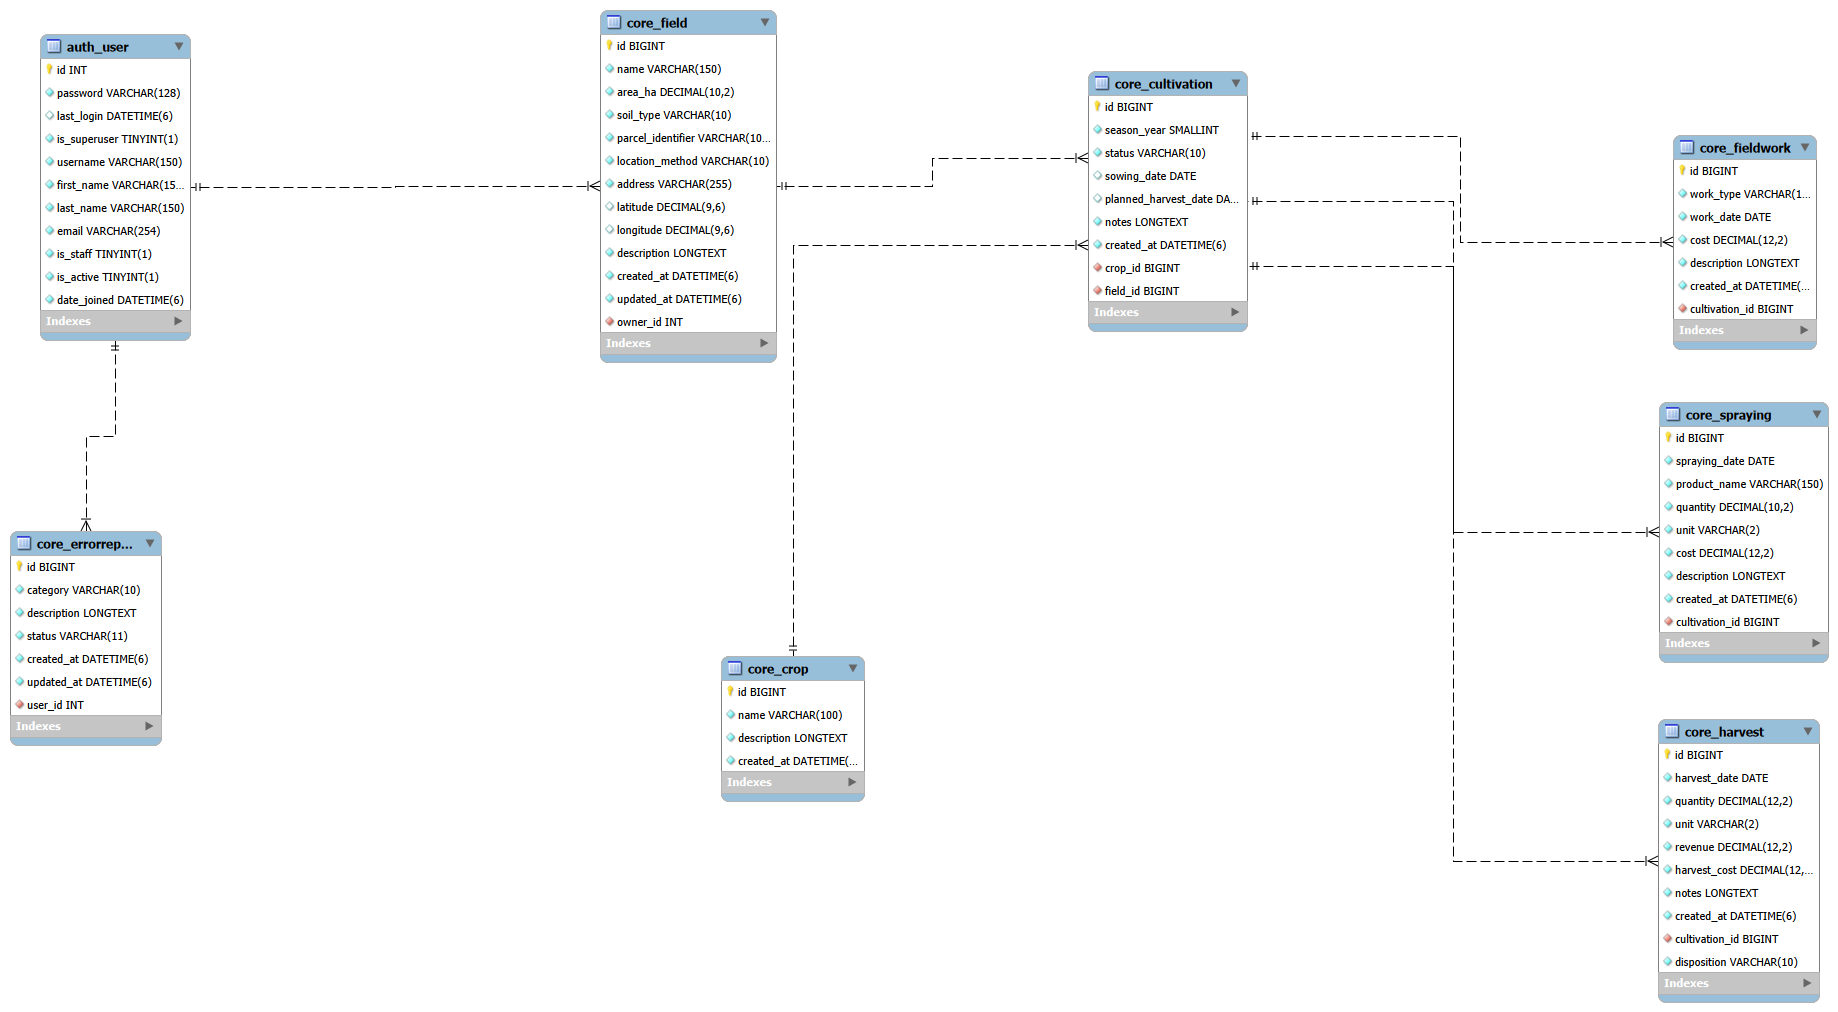
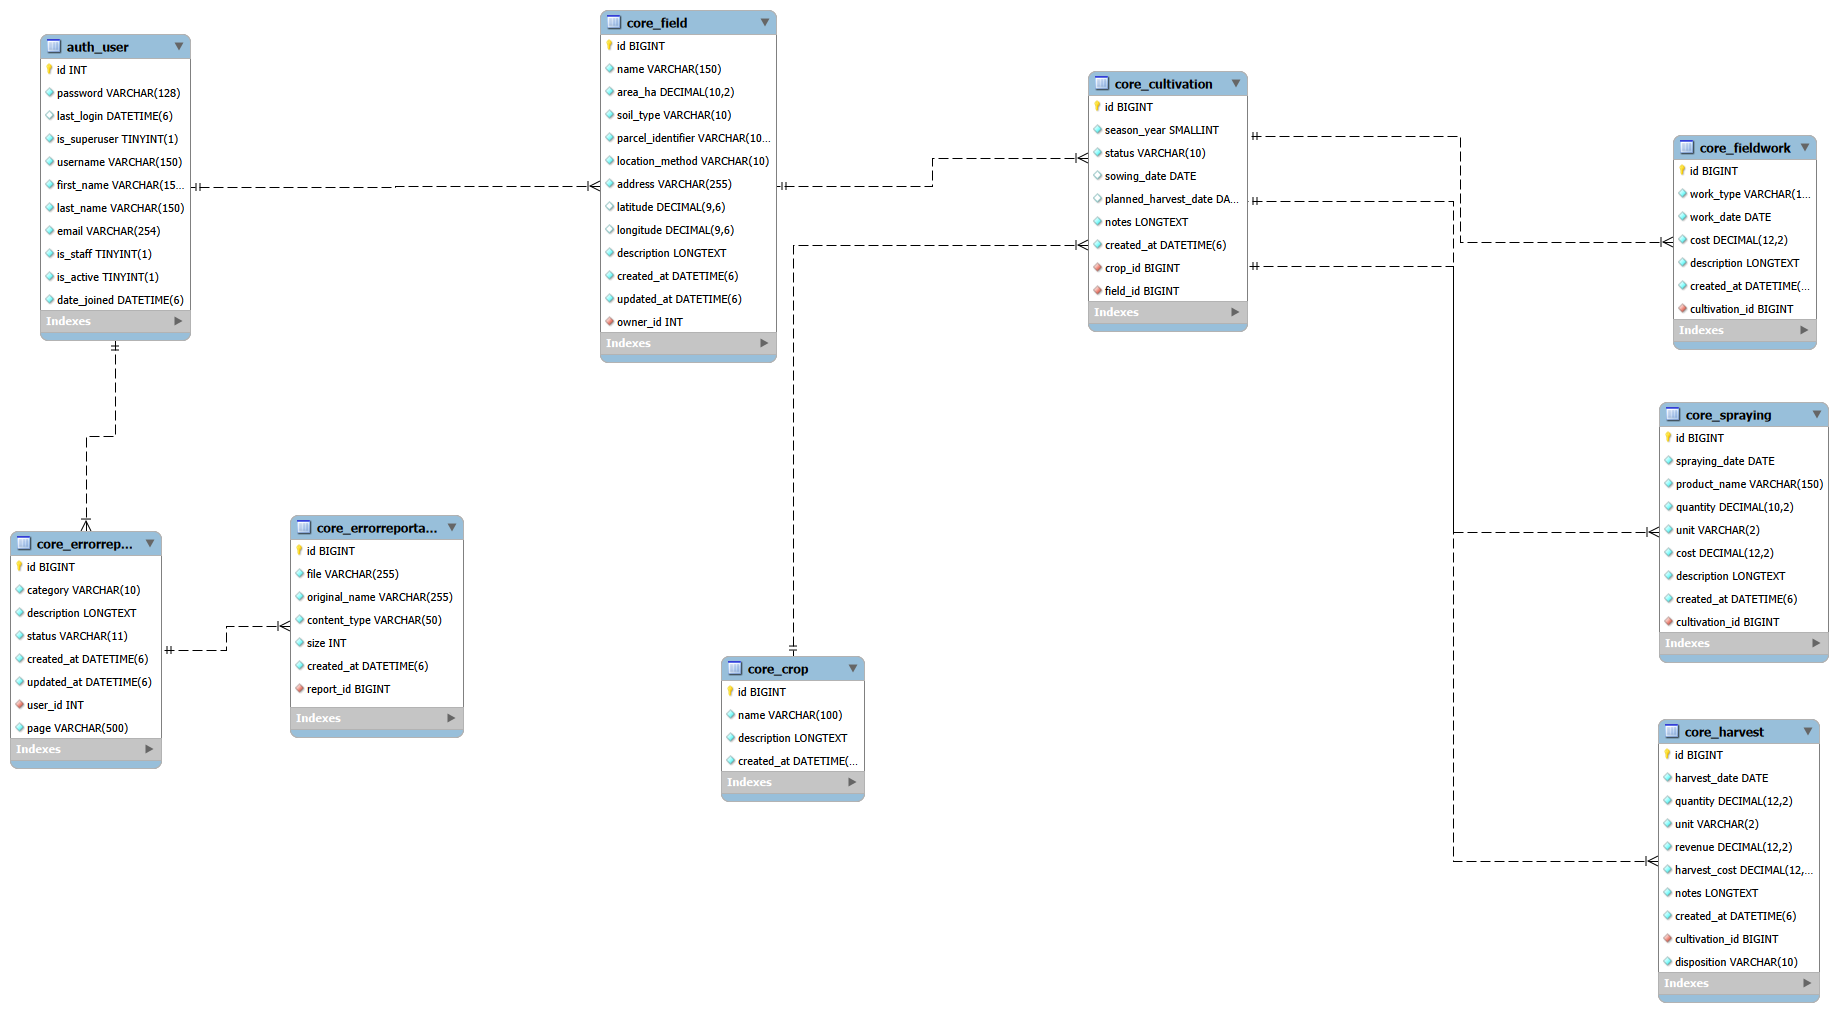
Aktualizacja modelu MySQL Workbench i diagramu ERD po migracji 0005
- kolumna core_errorreport.page i tabela core_errorreportattachment w modelu .mwb
- klucz obcy report_id -> core_errorreport.id
- ponowny eksport erd_farmer_app.png
- wynik porównania modelu z bazą (78 kolumn, bez różnic)

Changed region(s): [[0.1551, 0.4901, 0.2791, 0.7352], [0.0, 0.7045, 0.093, 0.7658]]

diff --git a/docs/database/weryfikacja_mysql_workbench.md b/docs/database/weryfikacja_mysql_workbench.md
@@ -230,9 +230,18 @@ Migracja `0005_error_report_page_and_attachments` zmieniła strukturę bazy:
 |---|---|
 | `farmer_db_schema.sql` | zaktualizowany: wygenerowany ponownie (`mysqldump` 8.4.9, `--no-data`); różnica względem poprzedniej wersji to wyłącznie powyższe zmiany |
 | `dokumentacja_bazy_danych.md` | zaktualizowana (sekcje 4.8, 4.9, 5, 10) |
-| `farmer_db_model.mwb` i `erd_farmer_app.png` | **do zrobienia w MySQL Workbench** |
+| `farmer_db_model.mwb` | zaktualizowany w MySQL Workbench 8.0.47: kolumna `page` i tabela `core_errorreportattachment` z kluczem obcym `report_id` → `core_errorreport.id` (`NO ACTION`) na diagramie **EER Diagram1** |
+| `erd_farmer_app.png` | wyeksportowany ponownie z **EER Diagram1** |
 
-Kroki w MySQL Workbench (tylko model, bez zmian w bazie):
+Weryfikacja po aktualizacji: kolumny wszystkich tabel `core_*` i `auth_user` z
+`document.mwb.xml` porównano z `information_schema.columns` bazy `farmer_db`
+(nazwa, typ, `NOT NULL`, `UNSIGNED`). Porównano 78 kolumn, bez różnic. Model, PNG i eksport SQL
+są zgodne z migracjami `core` 0001–0005.
+
+Uwaga: nowy MySQL Workbench 26.x nie obsługuje modelowania ani plików `.mwb`. Model edytuje się
+w MySQL Workbench 8.0 (archiwum: <https://downloads.mysql.com/archives/workbench/>).
+
+Wykonane kroki w MySQL Workbench (tylko model, bez zmian w bazie):
 
 1. Otwórz `docs/diagrams/farmer_db_model.mwb`.
 2. W tabeli `core_errorreport` dodaj kolumnę `page`, typ `VARCHAR(500)`, *NN*.

diff --git a/docs/dokumentacja_bazy_danych.md b/docs/dokumentacja_bazy_danych.md
@@ -32,7 +32,7 @@ Oznaczenia na diagramie:
 
 Diagram przedstawia tabele i relacje wynikające z modelu Django. Szczegółowe, nazwane ograniczenia `CHECK` i złożone ograniczenia `UNIQUE` są zdefiniowane w migracjach `0001_initial` i `0002_harvest_disposition_and_more` i opisane w dalszych sekcjach.
 
-Eksport `database/farmer_db_schema.sql` jest zgodny z aktualną strukturą bazy (migracje `core` 0001–0005). Diagram i model `diagrams/farmer_db_model.mwb` odpowiadają migracjom 0001–0004; zmiany z migracji 0005 (kolumna `core_errorreport.page` i tabela `core_errorreportattachment`) trzeba jeszcze nanieść w MySQL Workbench według sekcji 8 raportu. Wynik weryfikacji i procedurę aktualizacji w MySQL Workbench opisuje [raport weryfikacji](database/weryfikacja_mysql_workbench.md).
+Diagram, model `diagrams/farmer_db_model.mwb` i eksport `database/farmer_db_schema.sql` są zgodne z aktualną strukturą bazy (migracje `core` 0001–0005). Wynik weryfikacji i procedurę aktualizacji w MySQL Workbench opisuje [raport weryfikacji](database/weryfikacja_mysql_workbench.md).
 
 ## 4. Opis tabel
 
